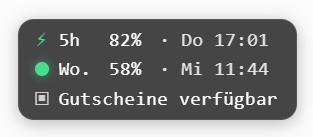
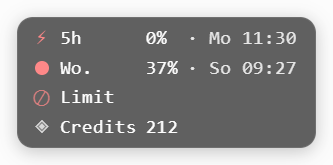
v1.0.33: vierte Zeile mit Credit-Kontostand

diff --git a/xcodex-costs.user.js b/xcodex-costs.user.js
@@ -1,7 +1,7 @@
 // ==UserScript==
 // @name         xCodex Costs
 // @namespace    https://github.com/immerzu
-// @version      1.0.32
+// @version      1.0.33
 // @description  Zeigt das 5-Stunden-Limit und das wöchentliche Limit des ChatGPT-Kontos als schwebendes Badge auf chatgpt.com. Kein API-Key, keine Modellaufrufe — liest nur die Werte, die die eigene Nutzungsseite selbst abruft.
 // @description:en  Shows the 5-hour limit and the weekly limit of the ChatGPT account as a floating badge on chatgpt.com. No API key and no model calls — it only reads the values your own usage page fetches.
 // @description:ru  Показывает 5-часовой лимит и недельный лимит аккаунта ChatGPT в виде плавающего бейджа на chatgpt.com. Без API-ключа и вызовов моделей — читает только значения, которые запрашивает ваша страница использования.
@@ -112,6 +112,7 @@
             limitReached: !!rl.limit_reached,
             hasCredits: !!(credits && credits.has_credits),
             creditBalance: credits && typeof credits.balance === 'string' ? credits.balance : null,
+            creditValue: credits && Number.isFinite(Number(credits.balance)) ? Number(credits.balance) : null,
             resetCredits: resets && Number.isFinite(Number(resets.available_count))
                 ? Number(resets.available_count) : null
         };
@@ -236,6 +237,15 @@
         }
     }
 
+    /** Credit-Guthaben kompakt: 212 · 12,5 · 0,80 */
+    function fmtCredits(v) {
+        const n = Number(v);
+        if (!Number.isFinite(n) || n <= 0) return '';
+        if (n >= 100) return String(Math.round(n));
+        if (n >= 1) return n.toFixed(1).replace('.', ',');
+        return n.toFixed(2).replace('.', ',');
+    }
+
     /**
      * Inhalt des Badges in vier Spalten: Symbol | Label | Wert | Reset.
      * Dadurch stehen Labels, Prozentwerte und Reset-Zeiten zeilenweise untereinander.
@@ -244,7 +254,7 @@
      * wenn das Limit erreicht ist — den Limit-Status.
      */
     function badgeParts(data) {
-        if (!data) return { top: { label: '', value: '…', reset: '' }, bottom: null, status: null, credits: null };
+        if (!data) return { top: { label: '', value: '…', reset: '' }, bottom: null, status: null, credits: null, balance: null };
         const resetW = data.secondary && data.secondary.resetAt ? '· ' + fmtReset(data.secondary.resetAt) : '';
         const resetH = data.primary && data.primary.resetAt ? '· ' + fmtReset(data.primary.resetAt) : '';
         const top = {
@@ -261,12 +271,14 @@
         const credits = n > 0
             ? { text: n === 1 ? 'Gutschein verfügbar' : 'Gutscheine verfügbar' }
             : null;
+        const balance = data.hasCredits && data.creditValue !== null && data.creditValue > 0
+            ? { text: fmtCredits(data.creditValue) } : null;
 
         if (data.limitReached) {
             const extra = n > 0 ? '· ' + n + (n === 1 ? ' Gutschein' : ' Gutscheine') : '';
-            return { top, bottom, status: { text: 'Limit', extra }, credits };
+            return { top, bottom, status: { text: 'Limit', extra }, credits, balance };
         }
-        return { top, bottom, status: null, credits };
+        return { top, bottom, status: null, credits, balance };
     }
 
     // #endregion PURE
@@ -484,8 +496,13 @@
         const paceVal = mk('paceval', 'font-variant-numeric:tabular-nums', '3/3');
         const statExtra = mk('statextra', 'opacity:0.85', '3/4');
 
+        const balIcon = mk('balicon', 'justify-self:center;opacity:0.75', '4/1');
+        balIcon.textContent = '◈';
+        const balLabel = mk('ballabel', '', '4/2');
+        const balVal = mk('balval', 'font-variant-numeric:tabular-nums', '4/3');
+
         [bolt, l1label, l1val, l1reset, dot, l2label, l2val, l2reset,
-            paceIcon, statLabel, paceVal, statExtra].forEach((n) => text.appendChild(n));
+            paceIcon, statLabel, paceVal, statExtra, balIcon, balLabel, balVal].forEach((n) => text.appendChild(n));
         badgeEl.appendChild(text);
         document.body.appendChild(badgeEl);
 
@@ -504,7 +521,7 @@
             dot.style.background = color;
             dot.style.boxShadow = view.kind === 'ok' ? '0 0 6px rgba(61,220,132,0.6)' : 'none';
         }
-        const parts = view.parts || { top: { label: '', value: '…', reset: '' }, bottom: null, status: null, credits: null };
+        const parts = view.parts || { top: { label: '', value: '…', reset: '' }, bottom: null, status: null, credits: null, balance: null };
         const set = (role, v) => {
             const n = el.querySelector('[data-role="' + role + '"]');
             if (n) n.textContent = v;
@@ -531,6 +548,11 @@
             pa.textContent = hasStatus ? '⊘' : '▣';
             pa.style.color = hasStatus ? COLORS.crit : '';
         }
+        const hasBalance = !!parts.balance;
+        set('ballabel', hasBalance ? 'Credits' : '');
+        set('balval', hasBalance ? parts.balance.text : '');
+        const bi = el.querySelector('[data-role="balicon"]');
+        if (bi) bi.style.display = hasBalance ? '' : 'none';
         const bolt = el.querySelector('[data-role="bolt"]');
         if (bolt) bolt.style.color = color;
         el.title = view.title;
@@ -629,7 +651,7 @@
         lines.push.apply(lines, windowLines(longLabel(data.primary, '5-Stunden-Limit'), data.primary));
         lines.push.apply(lines, windowLines(longLabel(data.secondary, 'Wöchentliches Limit'), data.secondary));
         lines.push('');
-        lines.push('Credits: ' + (data.hasCredits ? (data.creditBalance || 'vorhanden') : 'keine'));
+        lines.push('Credits: ' + (data.hasCredits && data.creditValue > 0 ? fmtCredits(data.creditValue) : 'keine'));
         if (data.resetItems && data.resetItems.length) {
             lines.push('Reset-Gutscheine (' + data.resetItems.length + '):');
             data.resetItems.forEach((c, i) => {
@@ -674,7 +696,7 @@
     function authView(note) {
         return {
             kind: 'crit',
-            parts: { top: { label: '', value: 'Login nötig', reset: '' }, bottom: null, status: null, credits: null },
+            parts: { top: { label: '', value: 'Login nötig', reset: '' }, bottom: null, status: null, credits: null, balance: null },
             title: 'Kein gültiger ChatGPT-Login in diesem Browser.\n' + (note ? '(' + note + ')\n' : '') +
                 '\nBitte auf chatgpt.com anmelden — danach aktualisiert sich das Badge selbst.'
         };
@@ -683,7 +705,7 @@
     function errorView(note) {
         return {
             kind: 'crit',
-            parts: { top: { label: '', value: (note || 'Fehler'), reset: '' }, bottom: null, status: null, credits: null },
+            parts: { top: { label: '', value: (note || 'Fehler'), reset: '' }, bottom: null, status: null, credits: null, balance: null },
             title: 'Die Planlimits konnten nicht geladen werden:\n' + (note || 'unbekannter Fehler')
         };
     }
@@ -733,7 +755,7 @@
             snapshot = saved;
             render(freshView(snapshot));
         } else {
-            render({ kind: 'none', parts: { top: { label: '', value: 'lädt …', reset: '' }, bottom: null, status: null, credits: null }, title: 'Planlimits werden geladen …' });
+            render({ kind: 'none', parts: { top: { label: '', value: 'lädt …', reset: '' }, bottom: null, status: null, credits: null, balance: null }, title: 'Planlimits werden geladen …' });
         }
 
         refresh('start');

diff --git a/description.md b/description.md
@@ -3,6 +3,7 @@ Zeigt das **5-Stunden-Limit** und das **wöchentliche Limit** des ChatGPT-Kontos
 - Läuft nur auf `chatgpt.com`.
 - Drei Zeilen — `⚡ 5h 77% · Mo 16:48`, `● Wo. 17% · Mi 08:08` und `▣ Gutscheine verfügbar`: jeweils der Rest in Prozent und der Zeitpunkt, an dem das Fenster zurückgesetzt wird.
 - **`▣ Gutscheine verfügbar`** = wie viele kostenlose Limit-Resets bereitliegen und wann der nächste verfällt (Datum; Uhrzeit und Vergabe im Tooltip). Der Tooltip nennt für jeden Gutschein Vergabe- und Ablaufdatum.
+- Vierte Zeile `◈ Credits 212` = aktueller Credit-Kontostand (gekaufte Credits), sofern vorhanden.
 - Farbe der Symbole richtet sich nach dem 5-Stunden-Limit: grün ab 20 %, gelb 5–19 %, rot unter 5 %.
 - **Limit erreicht:** Die Zahlen bleiben stehen, die dritte Zeile zeigt `⊘ Limit · N Gutscheine` — so sieht man, welches Fenster leer ist, und ob Reset-Gutscheine bereitliegen.
 - **Kein API-Key, keine Modellaufrufe, keine Token-Kosten:** Es liest nur die Endpunkte, die die Nutzungsseite selbst aufruft.

diff --git a/README.md b/README.md
@@ -17,7 +17,8 @@ Drei Zeilen, ein Raster: Symbol | Label | Wert | Reset-Zeitpunkt.
 |---|---|---|
 | 1 | ⚡ | 5-Stunden-Limit: Rest in % · Zeitpunkt der Rücksetzung |
 | 2 | ● | Wöchentliches Limit: Rest in % · Zeitpunkt der Rücksetzung |
-| 3 | ▣ | Reset-Gutscheine: Anzahl · Ablauf des nächsten |
+| 3 | ▣ | Reset-Gutscheine: Hinweis, wenn welche verfügbar sind |
+| 4 | ◈ | Credits: aktueller Kontostand |
 
 Ist das Limit erreicht, bleiben die Zahlen stehen und Zeile 3 zeigt den Status:
 

diff --git a/CHANGELOG.md b/CHANGELOG.md
@@ -1,5 +1,12 @@
 # CHANGELOG
 
+## 1.0.33 — 2026-11-09
+
+- **Vierte Zeile: Credits.** `◈ Credits 212` zeigt den Credit-Kontostand aus `credits.balance`.
+  Format: ganzzahlig ab 100, sonst eine bzw. zwei Dezimalen (`12,5` / `0,80`).
+  Ohne Credits entfällt die Zeile.
+- Tooltip: `Credits: 212` statt `keine`.
+
 ## 1.0.32 — 2026-11-05
 
 - Dritte Zeile nur noch als Hinweis: `▣ Gutscheine verfügbar` (bzw. `Gutschein verfügbar`).
